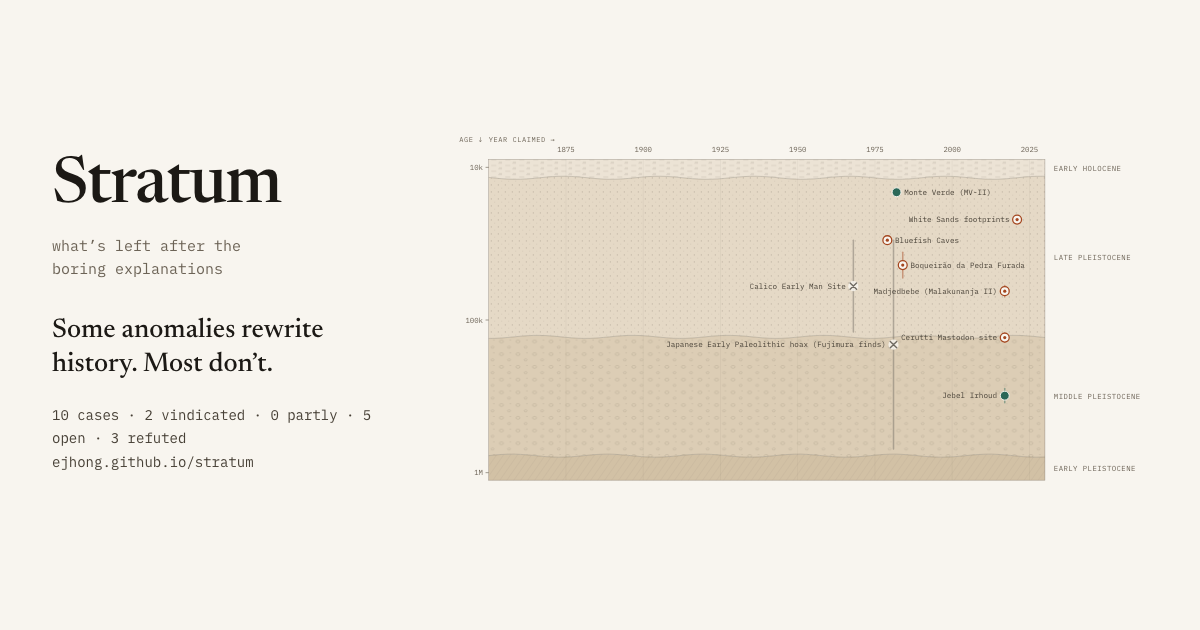
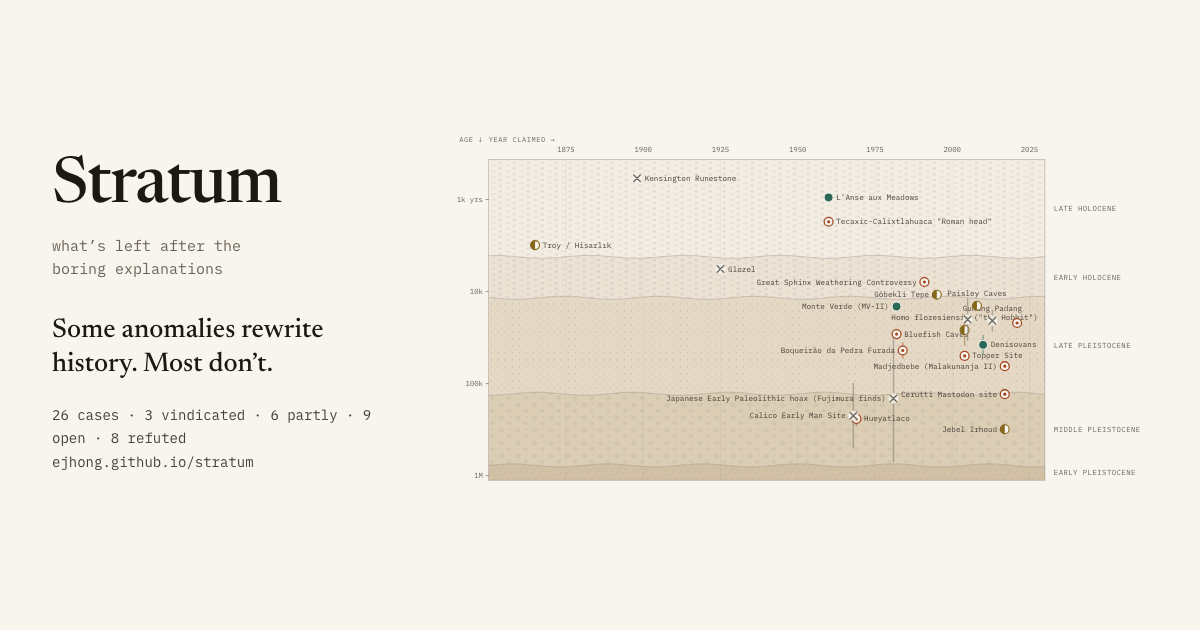
Lab Bulletin 1: most of the world's great megaliths have never been dated directly
Bulletins are the lab's dated announcement channel (findings/bulletins/*.json), linked
from the top of the home page. Bulletin 1 summarizes H7 (35 of 40 megaliths dated only by
association), the undated Sphinx enclosure and its proposed test, Monte Verde's 2026
re-contest, O1, H4 and the first data scans — framed as leads, not discoveries.

diff --git a/site/assets/style.css b/site/assets/style.css
@@ -293,3 +293,13 @@ table.leads .test b { font: 500 10px var(--mono); letter-spacing: .08em; text-tr
 
 @media (prefers-reduced-motion: reduce) { * { transition: none !important; } }
 @media print { .site-header, .site-footer, .filters { display: none; } body { background: #fff; } }
+
+/* Bulletins */
+.bulletin-banner { display: flex; align-items: baseline; flex-wrap: wrap; gap: 4px 14px; margin-top: 16px; padding: 12px 16px; border-radius: var(--r); background: var(--dark); color: var(--dark-text); text-decoration: none; }
+.bulletin-banner .eyebrow { color: var(--dark-accent); }
+.bulletin-banner b { font: 500 1.05rem var(--serif); }
+.bulletin-banner .go { margin-left: auto; font: 500 12px var(--mono); color: var(--dark-accent); }
+.bulletin-banner:hover { color: var(--dark-text); background: #2a2621; }
+ol.bulletin { margin: 0; padding-left: 1.2em; display: grid; gap: 14px; font-size: 15.5px; }
+ol.bulletin li::marker { font: 500 14px var(--mono); color: var(--accent); }
+ol.bulletin b { font-weight: 600; }

diff --git a/scripts/build_site.py b/scripts/build_site.py
@@ -311,7 +311,7 @@ def leads_table(cases, limit=None):
 
 # ---------------------------------------------------------------- pages
 
-def home(cases, summary):
+def home(cases, summary, latest=None):
     c = {s: sum(r["status"] == s for r in cases) for s in STATUSES}
     reviewed = sum(r["_reviewed"] for r in cases)
     stats = stat_block([(len(cases), "", "Cases")] + [
@@ -342,7 +342,9 @@ def home(cases, summary):
     notes_html = ('<table class="data"><tbody>' + "".join(
         f'<tr><td class="m">{e(d)}</td><td>{e(msg)}</td><td class="m"><a href="{REPO}/commit/{e(h)}">{e(h)}</a></td></tr>'
         for d, h, msg in notes) + "</tbody></table>") if notes else '<p class="muted small">No activity yet.</p>'
-    body = f"""<div class="wrap">
+    banner = (f'<a class="bulletin-banner" href="{{root}}bulletin/{latest["number"]}/"><span class="eyebrow">Lab bulletin {latest["number"]} · {e(latest["date"])}</span>'
+              f'<b>{e(latest["title"])}</b><span class="go">Read →</span></a>') if latest else ""
+    body = f"""<div class="wrap">{banner}
 <section class="head"><div>
 <div class="eyebrow">An AI lab for archaeology’s anomalies</div>
 <h1>Some anomalies rewrite history. Most don’t.</h1>
@@ -703,6 +705,24 @@ def method(cases):
     page("method/index.html", "Method", body, active="method/")
 
 
+def bulletins():
+    """Dated lab bulletins: the announcement channel. Latest is linked from the home page."""
+    items = sorted((ROOT / "findings" / "bulletins").glob("*.json"))
+    out = []
+    for f in items:
+        bl = json.loads(f.read_text())
+        pts = "".join(
+            f'<li><b>{e(p["head"])}</b> {e(p["text"])} <a class="small" href="{{root}}{e(p["link"])}">{e(p["link_text"])} →</a></li>' for p in bl["points"])
+        body = f"""<div class="wrap">
+<section class="head"><div><div class="eyebrow">Lab bulletin {bl['number']} · {e(bl['date'])}</div><h1>{e(bl['title'])}</h1>
+<p class="lede">{e(bl['dek'])}</p></div></section>
+<section class="section" style="max-width:860px"><ol class="bulletin">{pts}</ol>
+<p class="falsifier" style="margin-top:22px">{e(bl['caveat'])}</p></section></div>"""
+        page(f"bulletin/{bl['number']}/index.html", bl["title"], body, desc=bl["dek"])
+        out.append(bl)
+    return out[-1] if out else None
+
+
 def not_found():
     page("404.html", "Not found", '<div class="wrap"><section class="head"><div><div class="eyebrow">404</div><h1>Nothing at this depth.</h1><p class="lede"><a href="/stratum/">Back to the surface →</a></p></div></section></div>', root="/stratum/")
 
@@ -737,7 +757,8 @@ def main(argv):
     if (SITE / "plates").exists():
         shutil.copytree(SITE / "plates", OUT / "plates")
     (OUT / ".nojekyll").write_text("")
-    home(cases, summary)
+    latest = bulletins()
+    home(cases, summary, latest)
     cases_index(cases)
     for r in cases:
         case_page(r)
